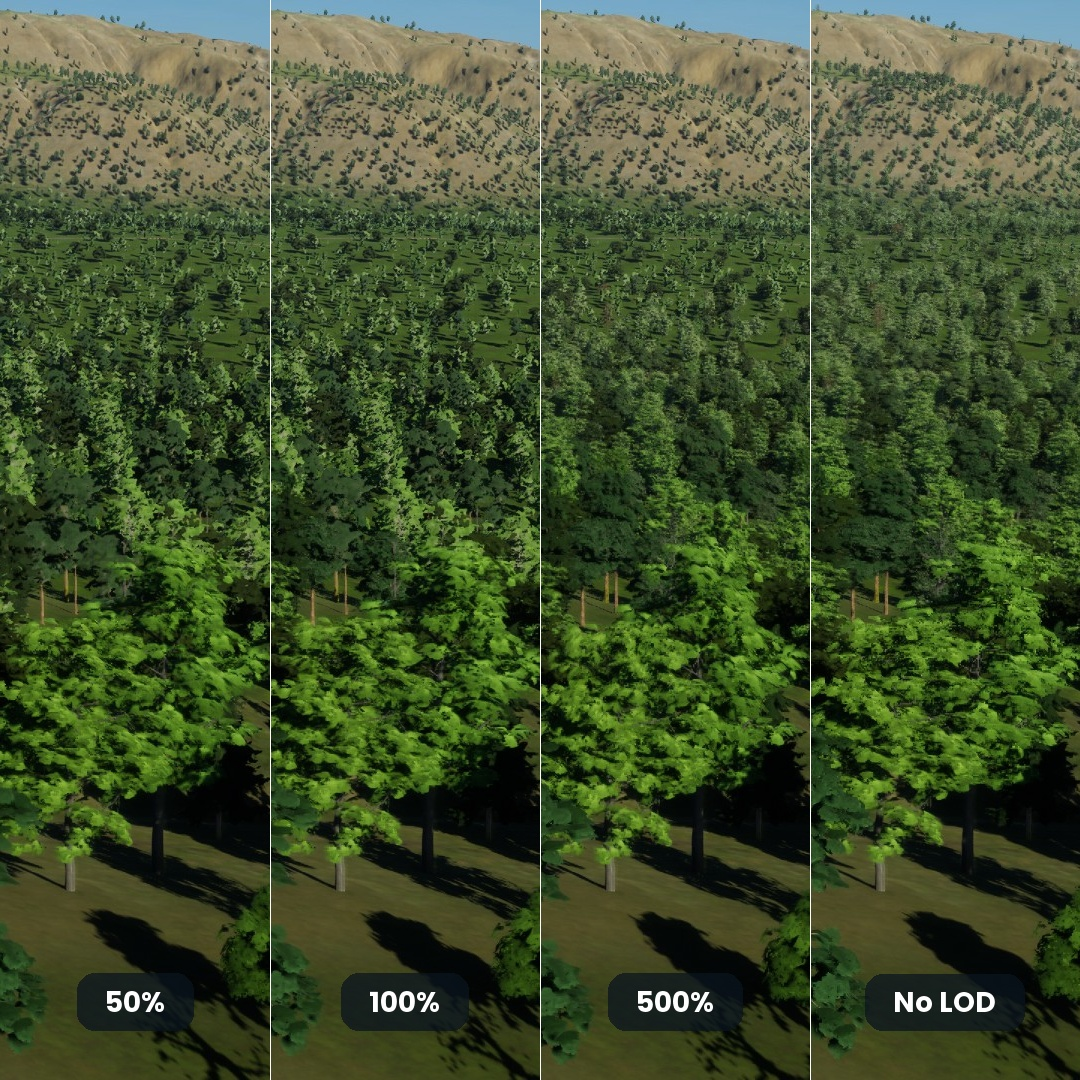
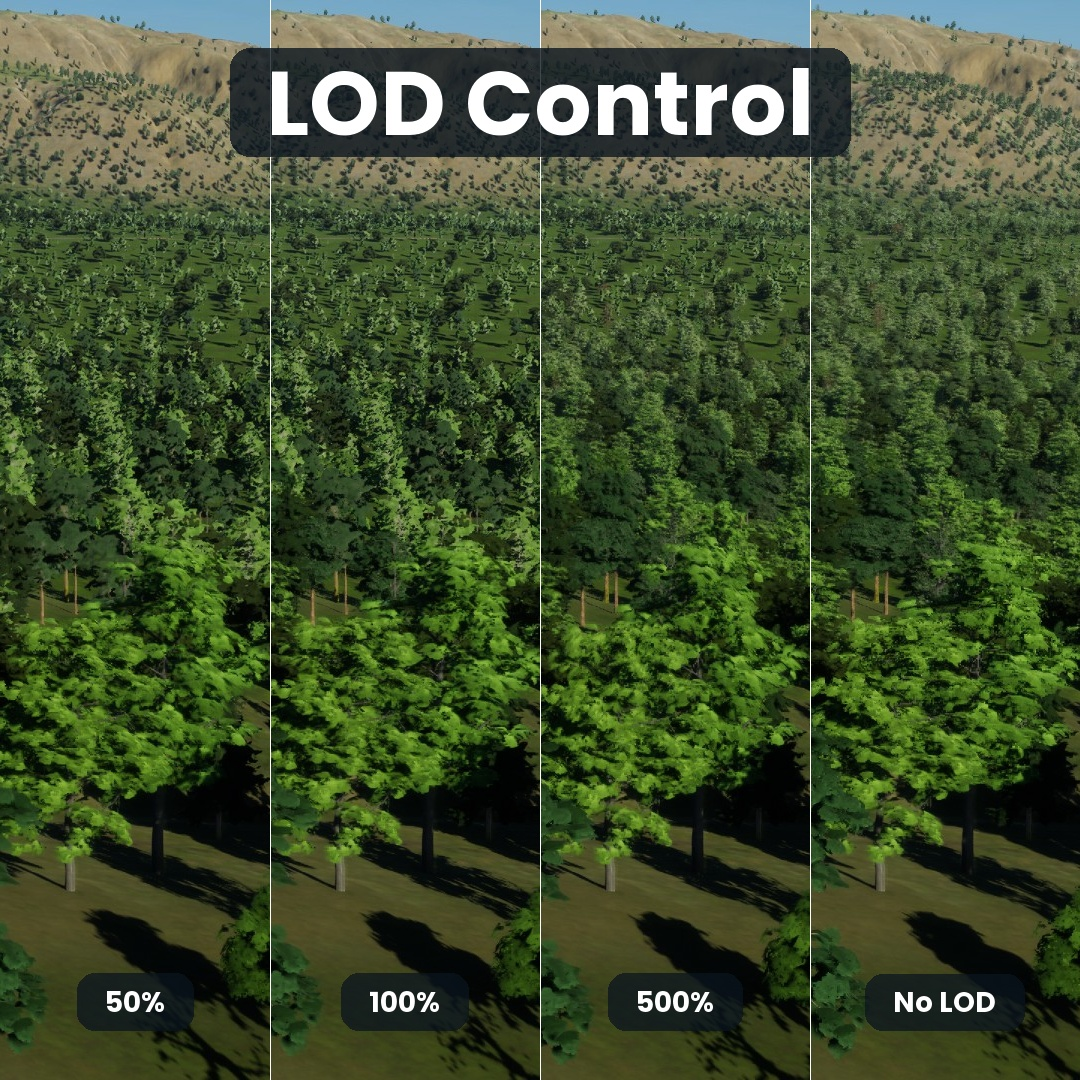
Add title

Changed region(s): [[0.2139, 0.0306, 0.7944, 0.1528]]

diff --git a/Properties/create_images.py b/Properties/create_images.py
@@ -24,7 +24,6 @@ def add_label(img_crop, label, font_size=72, margin_bottom=120):
 
     padding_x, padding_y = 28, 18
     bbox = draw.textbbox((0, 0), label, font=font)
-    # bbox may have a top offset (e.g. bbox[1] != 0) — account for it
     text_x_offset = bbox[0]
     text_y_offset = bbox[1]
     tw = bbox[2] - bbox[0]
@@ -38,7 +37,6 @@ def add_label(img_crop, label, font_size=72, margin_bottom=120):
     pill_y0 = pill_y1 - pill_h
 
     draw.rounded_rectangle([pill_x0, pill_y0, pill_x1, pill_y1], radius=18, fill=(10, 20, 30, 190))
-    # subtract the bbox offsets so text sits exactly centered in the pill
     draw.text(
         (pill_x0 + padding_x - text_x_offset, pill_y0 + padding_y - text_y_offset),
         label, font=font, fill=(255, 255, 255, 255)
@@ -62,7 +60,7 @@ draw_b.line([(0, h), (seg_w * 2, h)], fill=(255, 255, 255, 80), width=2)
 banner.save("lodcontrol_banner_labeled.jpg", quality=95)
 print(f"Banner saved: {banner.size}")
 
-# --- Square (1x4) ---
+# --- Square (1x4) with title ---
 seg_sq = h // 4
 square = Image.new("RGB", (h, h))
 for i, img in enumerate(imgs):
@@ -76,6 +74,33 @@ draw_s = ImageDraw.Draw(square)
 for i in range(1, 4):
     draw_s.line([(i * seg_sq, 0), (i * seg_sq, h)], fill=(255, 255, 255, 80), width=1)
 
+# title overlay: "LOD Control" centered at top
+square_rgba = square.convert("RGBA")
+title_overlay = Image.new("RGBA", square_rgba.size, (0, 0, 0, 0))
+title_draw = ImageDraw.Draw(title_overlay)
+title_font = ImageFont.truetype(font_path, 90)
+title = "LOD Control"
+tbbox = title_draw.textbbox((0, 0), title, font=title_font)
+tx_off = tbbox[0]
+ty_off = tbbox[1]
+tw = tbbox[2] - tbbox[0]
+th = tbbox[3] - tbbox[1]
+
+pad_x, pad_y = 36, 20
+pill_w = tw + pad_x * 2
+pill_h = th + pad_y * 2
+pill_x0 = (h - pill_w) // 2
+pill_x1 = pill_x0 + pill_w
+pill_y0 = 48
+pill_y1 = pill_y0 + pill_h
+
+title_draw.rounded_rectangle([pill_x0, pill_y0, pill_x1, pill_y1], radius=20, fill=(10, 20, 30, 200))
+title_draw.text(
+    (pill_x0 + pad_x - tx_off, pill_y0 + pad_y - ty_off),
+    title, font=title_font, fill=(255, 255, 255, 255)
+)
+
+square = Image.alpha_composite(square_rgba, title_overlay).convert("RGB")
 square.save("lodcontrol_square_labeled.jpg", quality=95)
 print(f"Square saved: {square.size}")
 print("Done")
